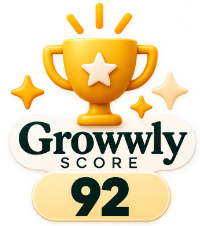
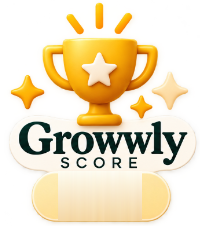
Growwly Score rediseñado, colores por estado y badge Info básica (#103)
* Perfil clínica: reordena menú, rediseña sellos de score y visibilidad, gatea estadísticas de leads a PREMIUM

- Menú: Visibilidad pasa a estar antes que Estadísticas
- Growwly Score y Match Score: nuevos sellos gráficos (trofeo / match), sello más grande en el panel de clínica y tooltip "i" explicando qué mide
- Visibilidad: iconos reales (lucide) en vez de emojis + línea de beneficio en cada tarjeta de upgrade
- Estadísticas: las métricas de leads (recibidos, tasa de elección, gráfica y desglose por estado) quedan en una sección "Info PREMIUM" con vistas de ficha y contactos siempre visibles arriba; en básico se ven en gris/bloqueadas con CTA a Visibilidad

Claude-Session: https://claude.ai/code/session_01LDJe486sczaNLbqym9Vq58

* Reparto de leads: mínimo garantizado de 2/mes por clínica premium + Match Score de cobertura

- notificarClinicasDeSolicitud ya no ordena solo por un routingScore ciego: primero cubre a las clínicas "atrasadas" (menos de 2 leads este mes, desempatando por Match Score) y solo con los huecos que sobran compiten las que ya están al día, por Growwly Score puro
- Nueva columna solicitudes_presupuesto.match_score_paciente: cobertura real (min(candidatas, 5) x 20%), calculada una vez al repartir el lead en vez de derivarse mal más tarde del mejor match_score individual
- /cuenta/solicitud/[id] lee ese campo y actualiza el copy de "Tu Match Score" para reflejar cobertura, no calidad de encaje
[…]

Changed region(s): [[0.27, 0.7434, 0.72, 0.9912]]

diff --git a/src/components/clinica/sello-growwly-score.tsx b/src/components/clinica/sello-growwly-score.tsx
@@ -12,6 +12,8 @@ const FACTORES: { clave: keyof GrowwlyScore["desglose"]; label: string }[] = [
   { clave: "googleRating", label: "Valoraciones Google" },
 ];
 
+const TOOLTIP_TEXTO = `Esta puntuación es la media de cómo destacas en: ${FACTORES.map((f) => f.label.toLowerCase()).join(", ")}. Cuanto más alto sea tu Growwly Score, más probabilidades tienes de recibir leads extra.`;
+
 /**
  * Sello gráfico del Growwly Score en el panel de la clínica — mide
  * cómo trabaja la clínica dentro de Growwly (no es lo mismo que el
@@ -24,32 +26,39 @@ export function SelloGrowwlyScore({ score }: { score: GrowwlyScore }) {
   const [infoAbierta, setInfoAbierta] = useState(false);
 
   return (
-    <div className="flex items-center gap-5 rounded-2xl border border-yellow/40 bg-gradient-to-br from-yellow/15 via-white to-orange/10 p-5 md:w-[34%]">
-      <SelloScore tipo="growwly" valor={score.total} size={132} />
-      <div className="text-xs leading-relaxed text-ink-soft">
-        <span className="flex items-center gap-1.5">
-          <span className="font-display text-base font-bold text-teal-dark">Tu Growwly Score</span>
-          <span className="relative">
+    <div className="flex items-center gap-5 rounded-2xl bg-teal-dark p-5 md:w-[34%]">
+      <SelloScore tipo="growwly" valor={score.total} size={110} />
+      <div className="min-w-0">
+        <div className="flex items-start justify-between gap-2">
+          <p className="font-display text-xl font-extrabold uppercase leading-tight text-orange">
+            Growwly
+            <br />
+            Score
+          </p>
+          <span className="group relative shrink-0">
             <button
               type="button"
               onClick={() => setInfoAbierta((v) => !v)}
               onBlur={() => setInfoAbierta(false)}
               aria-label="Qué es el Growwly Score"
-              className="flex h-4 w-4 items-center justify-center rounded-full bg-teal-dark/15 text-[10px] font-bold text-teal-dark hover:bg-teal-dark/25"
+              className="flex h-6 w-6 items-center justify-center rounded-full bg-white/15 text-xs font-bold text-white transition hover:bg-white/25"
             >
               i
             </button>
-            {infoAbierta && (
-              <span className="popover-anim absolute left-1/2 top-full z-20 mt-2 w-56 -translate-x-1/2 rounded-xl border border-line bg-white p-3 text-left text-xs normal-case text-ink shadow-lg">
-                Puntuación de 0 a 100 sobre lo buena que eres como clínica
-                partner de Growwly. Mejora tu posición en el reparto de leads
-                cuanta más completa esté tu ficha, más rápido respondas y
-                mejor gestiones cada solicitud.
-              </span>
-            )}
+            <span
+              className={`popover-anim absolute right-0 top-full z-20 mt-2 w-60 rounded-xl border border-line bg-white p-3 text-left text-xs normal-case leading-relaxed text-ink shadow-lg transition ${
+                infoAbierta
+                  ? "block"
+                  : "hidden group-hover:block"
+              }`}
+            >
+              {TOOLTIP_TEXTO}
+            </span>
           </span>
-        </span>
-        Afecta a tu puntuación: {FACTORES.map((f) => f.label).join(", ")}.
+        </div>
+        <p className="mt-1.5 text-sm leading-relaxed text-white/85">
+          Esta puntuación afecta directamente a la recepción extra de leads.
+        </p>
       </div>
     </div>
   );

diff --git a/src/app/clinica/visibilidad/page.tsx b/src/app/clinica/visibilidad/page.tsx
@@ -92,7 +92,7 @@ export default async function VisibilidadPage({
             <div className="grid grid-cols-1 gap-4 sm:grid-cols-2">
               <TarjetaVisibilidad
                 tipo="destacado"
-                Icono={Star}
+                icono={<Star className="h-5 w-5" strokeWidth={2.2} />}
                 titulo="Destacada en el listado"
                 descripcion="Tu ficha resalta con color y sube de posición en /clinicas."
                 beneficio="Más pacientes te ven primero al comparar clínicas de tu zona."
@@ -102,7 +102,7 @@ export default async function VisibilidadPage({
               />
               <TarjetaVisibilidad
                 tipo="destacado_home"
-                Icono={Home}
+                icono={<Home className="h-5 w-5" strokeWidth={2.2} />}
                 titulo="Destacada en la Home"
                 descripcion='Apareces en la sección "Clínicas destacadas" de la página principal.'
                 beneficio="Visibilidad máxima: es lo primero que ve cualquier visitante de Growwly."
@@ -112,7 +112,7 @@ export default async function VisibilidadPage({
               />
               <TarjetaVisibilidad
                 tipo="destacado_ciudad"
-                Icono={MapPin}
+                icono={<MapPin className="h-5 w-5" strokeWidth={2.2} />}
                 titulo="Destacada en tu ciudad"
                 descripcion={`Resaltas al principio dentro de ${rutaCiudad}.`}
                 beneficio="Ganas a la competencia local cuando buscan clínicas cerca."
@@ -122,7 +122,7 @@ export default async function VisibilidadPage({
               />
               <TarjetaVisibilidad
                 tipo="premium"
-                Icono={Gem}
+                icono={<Gem className="h-5 w-5" strokeWidth={2.2} />}
                 titulo="Perfil detallado"
                 descripcion="Fotos antes/después, opiniones, certificados, contacto directo y más en tu ficha."
                 beneficio="Ficha completa = más confianza del paciente = más leads convertidos."

diff --git a/src/app/clinica/estadisticas/page.tsx b/src/app/clinica/estadisticas/page.tsx
@@ -13,6 +13,8 @@ import { calcularEstadisticasClinica } from "@/lib/clinica/estadisticas-clinica"
 import { GraficoLineas } from "@/components/estadisticas/grafico-lineas";
 import { BarraCategoria } from "@/components/estadisticas/barra-categoria";
 import { BloqueoPremium } from "@/components/estadisticas/bloqueo-premium";
+import { ESTADO_COLOR } from "@/lib/leads/estado-color";
+import type { EstadoLead } from "@/lib/leads/estados-lead";
 
 type SearchParams = { rango?: string };
 
@@ -115,9 +117,14 @@ export default async function EstadisticasClinicaPage({
         </div>
 
         <div className="mb-6 flex items-center justify-between">
-          <p className="text-sm text-ink-soft">
-            Cómo le está yendo a tu ficha en Growwly.
-          </p>
+          <div className="flex items-center gap-2.5">
+            <span className="rounded-full bg-paper-dim px-3 py-1 text-xs font-bold uppercase tracking-wide text-ink-soft">
+              Info básica
+            </span>
+            <p className="text-sm text-ink-soft">
+              Cómo le está yendo a tu ficha en Growwly.
+            </p>
+          </div>
           <div className="inline-flex rounded-full border border-line bg-white p-1">
             {RANGOS.map((r) => (
               <Link
@@ -208,7 +215,7 @@ export default async function EstadisticasClinicaPage({
                       etiqueta={ESTADO_LABEL[l.estado] ?? l.estado}
                       valor={l.total}
                       total={stats.leadsTotal}
-                      color="#00768f"
+                      color={ESTADO_COLOR[l.estado as EstadoLead] ?? "#00768f"}
                     />
                   ))}
                 </div>

diff --git a/src/app/clinica/visibilidad/tarjeta-visibilidad.tsx b/src/app/clinica/visibilidad/tarjeta-visibilidad.tsx
@@ -1,7 +1,6 @@
 "use client";
 
-import { useState, useTransition } from "react";
-import type { LucideIcon } from "lucide-react";
+import { useState, useTransition, type ReactNode } from "react";
 import { solicitarVisibilidad, type TipoVisibilidad } from "./actions";
 
 const DURACIONES: { meses: number | null; etiqueta: string }[] = [
@@ -22,7 +21,7 @@ function formatearFecha(iso: string): string {
 
 type Props = {
   tipo: TipoVisibilidad;
-  Icono: LucideIcon;
+  icono: ReactNode;
   titulo: string;
   descripcion: string;
   beneficio: string;
@@ -33,7 +32,7 @@ type Props = {
 
 export function TarjetaVisibilidad({
   tipo,
-  Icono,
+  icono,
   titulo,
   descripcion,
   beneficio,
@@ -63,7 +62,7 @@ export function TarjetaVisibilidad({
             activo ? "bg-teal text-paper" : "bg-sage/60 text-teal-dark"
           }`}
         >
-          <Icono className="h-5 w-5" strokeWidth={2.2} />
+          {icono}
         </span>
         <div>
           <p className="font-display text-base text-teal-dark">{titulo}</p>

diff --git a/src/app/admin/(panel)/estadisticas/page.tsx b/src/app/admin/(panel)/estadisticas/page.tsx
@@ -5,6 +5,8 @@ import { calcularEstadisticasClinica } from "@/lib/clinica/estadisticas-clinica"
 import { GraficoLineas } from "@/components/estadisticas/grafico-lineas";
 import { BarraCategoria } from "@/components/estadisticas/barra-categoria";
 import { FiltrosEstadisticasAdmin } from "@/components/estadisticas/filtros-estadisticas-admin";
+import { ESTADO_COLOR } from "@/lib/leads/estado-color";
+import type { EstadoLead } from "@/lib/leads/estados-lead";
 
 export const dynamic = "force-dynamic";
 
@@ -177,7 +179,7 @@ export default async function EstadisticasAdminPage({
                     etiqueta={ESTADO_LABEL[l.estado] ?? l.estado}
                     valor={l.total}
                     total={stats.leadsTotal}
-                    color="#00768f"
+                    color={ESTADO_COLOR[l.estado as EstadoLead] ?? "#00768f"}
                   />
                 ))}
               </div>

diff --git a/src/lib/leads/estado-color.ts b/src/lib/leads/estado-color.ts
@@ -1,0 +1,21 @@
+import type { EstadoLead } from "@/lib/leads/estados-lead";
+
+/**
+ * Mismo color por estado que usan las tarjetas de /clinica/solicitudes
+ * (ESTADO_INFO ahí) — aquí en hex plano para gráficas/barras, así la
+ * clínica reconoce de un vistazo el estado en estadísticas sin tener
+ * que releer la leyenda.
+ */
+export const ESTADO_COLOR: Record<EstadoLead, string> = {
+  enviado: "#e8ef2d",
+  visto: "#ffba1f",
+  propuesta_enviada: "#00768f",
+  seleccionado: "#1f6b43",
+  cita_pendiente: "#00768f",
+  cita_programada: "#00768f",
+  cita_realizada: "#1f6b43",
+  convertido: "#1f6b43",
+  no_seleccionado: "#ffba1f",
+  no_convertido: "#66756f",
+  cancelado: "#66756f",
+};
